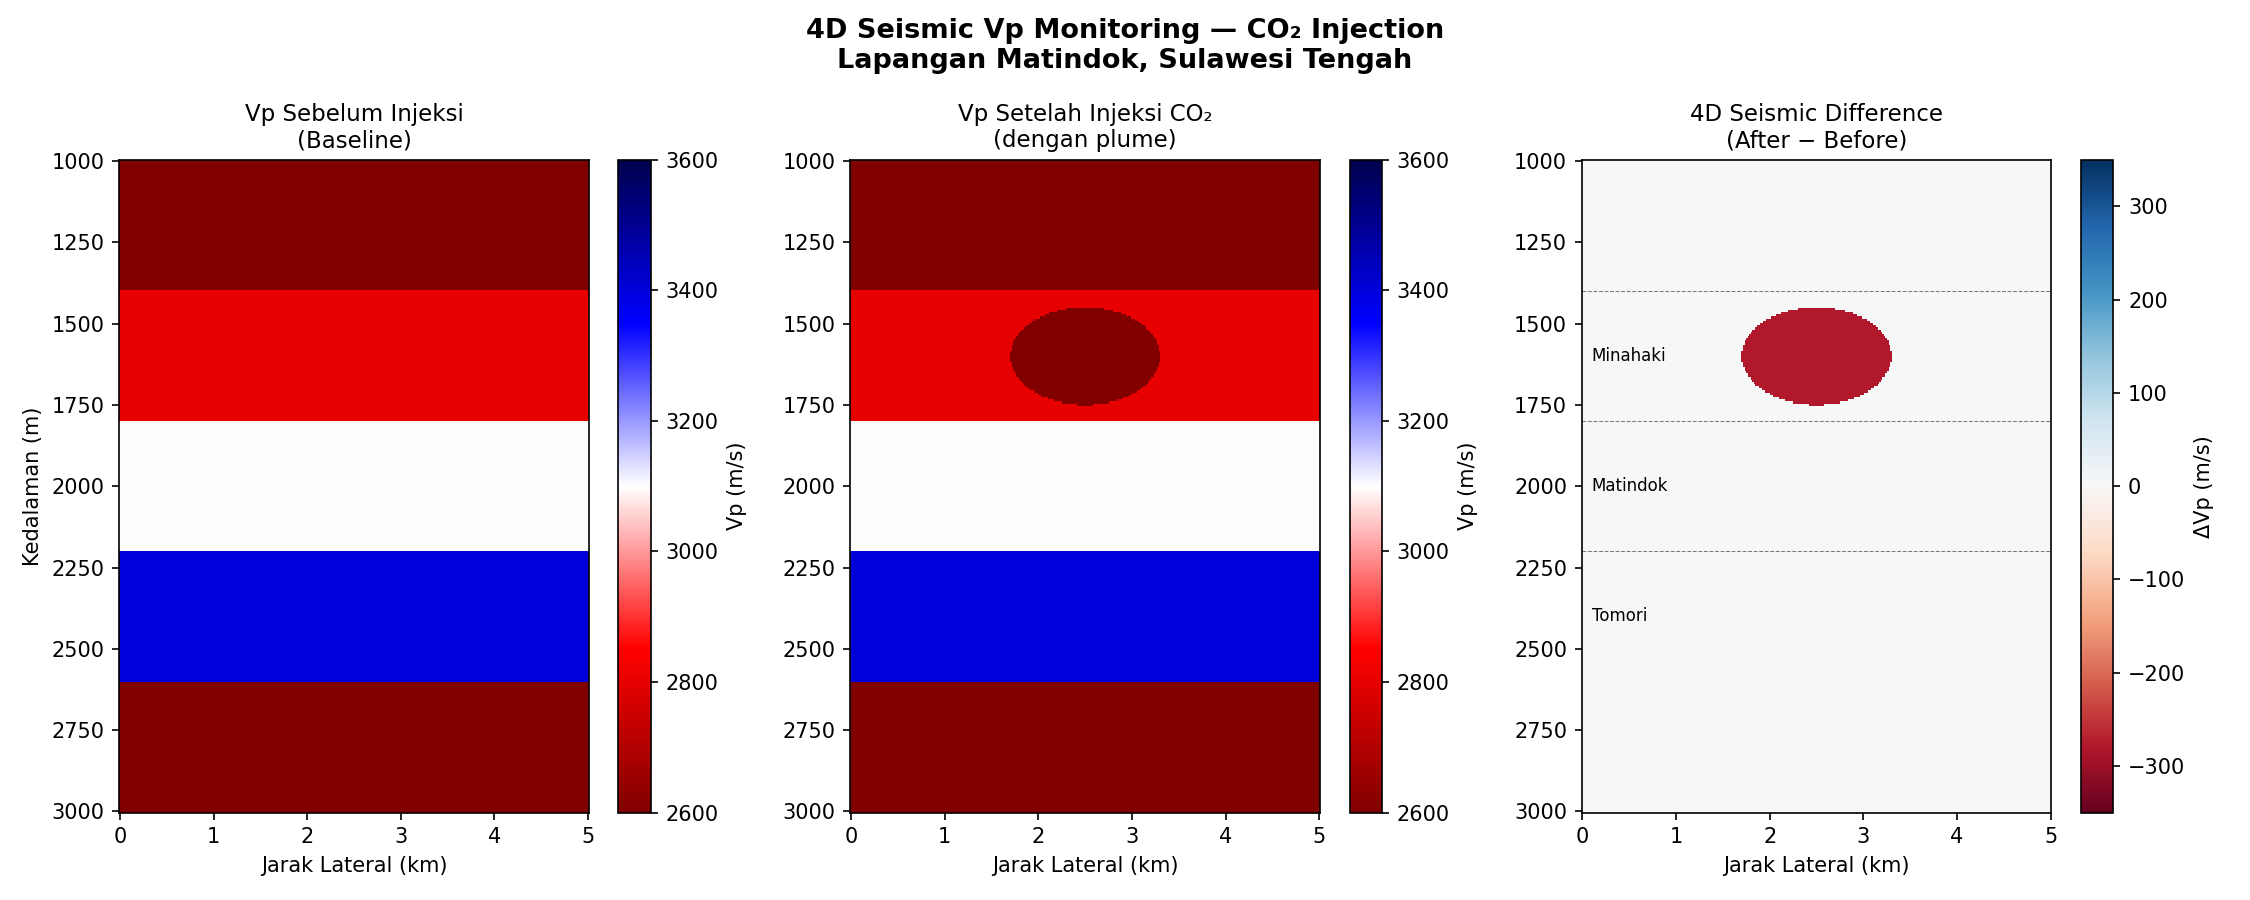
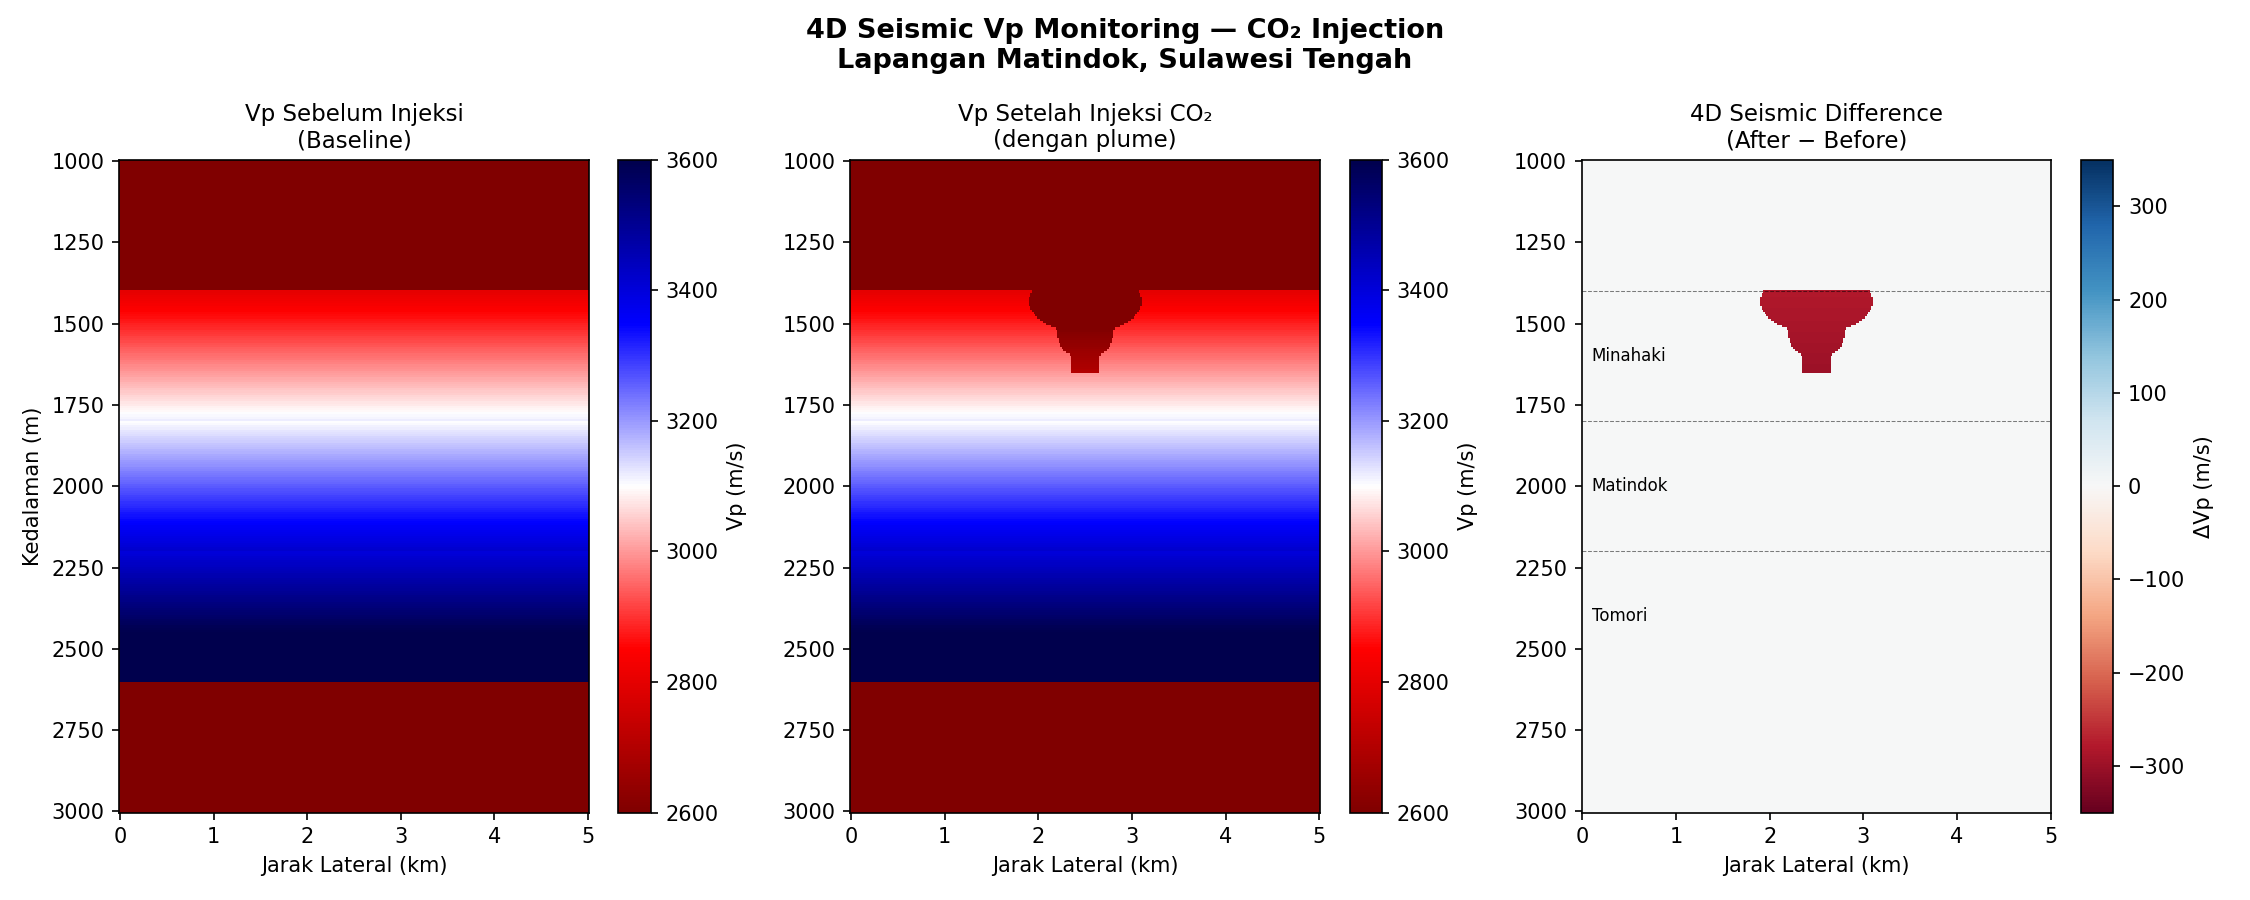
fix: mushroom plume shape and heterogeneous Vp gradient in Modul2, add real Sleipner data Modul5

Changed region(s): [[0.0311, 0.3422, 0.28, 0.7778], [0.3733, 0.3111, 0.5911, 0.7778], [0.7778, 0.3111, 0.84, 0.4667]]

diff --git a/Modul2_Vp_Anomali/vp_anomaly.py b/Modul2_Vp_Anomali/vp_anomaly.py
@@ -25,26 +25,42 @@ depth    = np.linspace(1000, 3000, 300)   # kedalaman (m)
 distance = np.linspace(0, 5000, 300)      # jarak lateral (m)
 D, X     = np.meshgrid(depth, distance)
 
-# ── Inisialisasi grid Vp ───────────────────────────────────
+# ── Inisialisasi grid Vp dengan gradien vertikal ──────────
 vp_before = np.zeros_like(D)
 vp_after  = np.zeros_like(D)
 
+# Gradient dalam setiap formasi (Vp naik ~100 m/s per 100m kedalaman)
+vp_gradient = 0.8  # m/s per meter kedalaman
+
 for name, (top, bot) in formations.items():
     mask = (D >= top) & (D < bot)
-    vp_before[mask] = vp_baseline[name]
-    vp_after[mask]  = vp_baseline[name]
+    # Vp baseline di top formasi + gradien ke bawah
+    vp_top = vp_baseline[name]
+    vp_before[mask] = vp_top + vp_gradient * (D[mask] - top)
+    vp_after[mask]  = vp_top + vp_gradient * (D[mask] - top)
 
-# ── Tambah anomali CO₂ plume (ellips di tengah Minahaki) ──
-# Plume terpusat di tengah lateral, di formasi Minahaki
-plume_center_x = 2500   # meter lateral
-plume_center_d = 1600   # meter kedalaman
-plume_radius_x = 800    # meter
-plume_radius_d = 150    # meter
+# ── Bentuk plume mushroom (buoyancy-driven) ───────────────
+# Terdiri dari dua bagian: stem (bawah) + cap (atas/melebar)
 
-plume_mask = (
-    ((X - plume_center_x) / plume_radius_x)**2 +
-    ((D - plume_center_d) / plume_radius_d)**2
+# Stem — zona injeksi langsung, sempit vertikal
+stem_mask = (
+    (np.abs(X - 2500) <= 150) &
+    (D >= 1500) & (D <= 1650)
+)
+
+# Cap — zona akumulasi di atas, melebar karena buoyancy
+cap_mask = (
+    ((X - 2500) / 600)**2 +
+    ((D - 1430) / 100)**2
 ) <= 1.0
+
+# Tambahan — lateral spread di tengah (transisi stem ke cap)
+mid_mask = (
+    ((X - 2500) / 300)**2 +
+    ((D - 1530) / 80)**2
+) <= 1.0
+
+plume_mask = stem_mask | cap_mask | mid_mask
 
 vp_after[plume_mask] = vp_after[plume_mask] * (1 + vp_anomaly_pct)
 